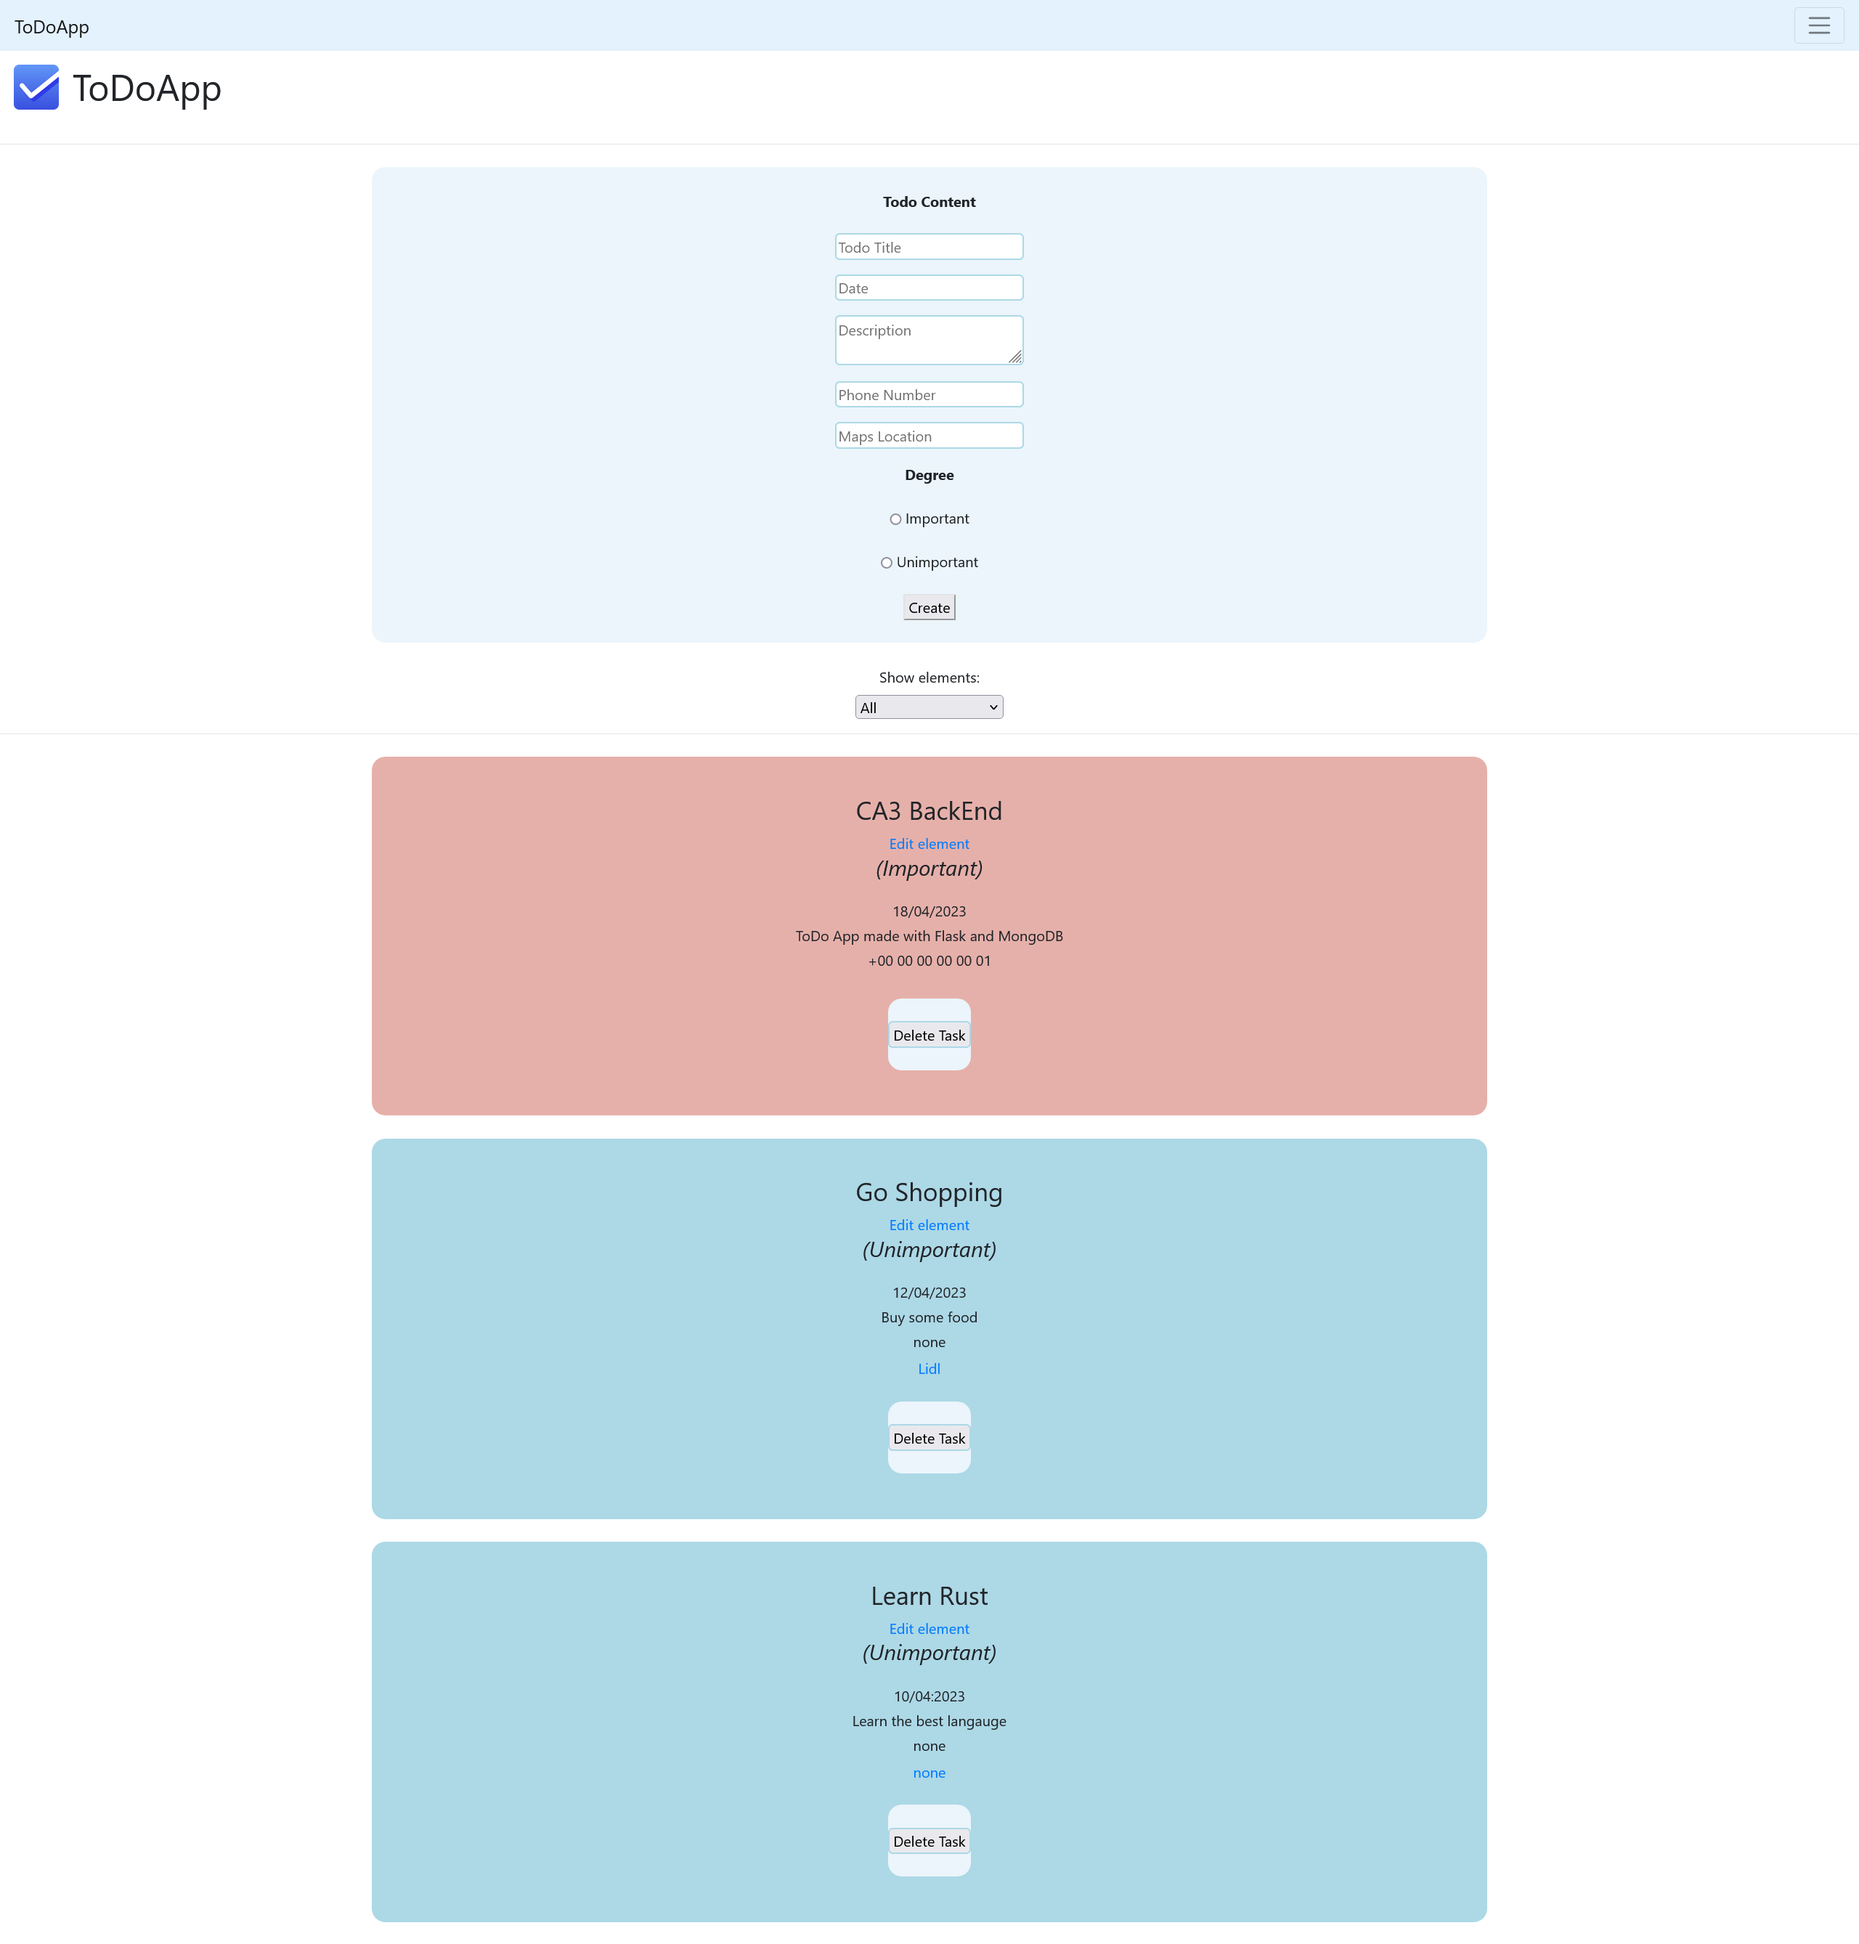
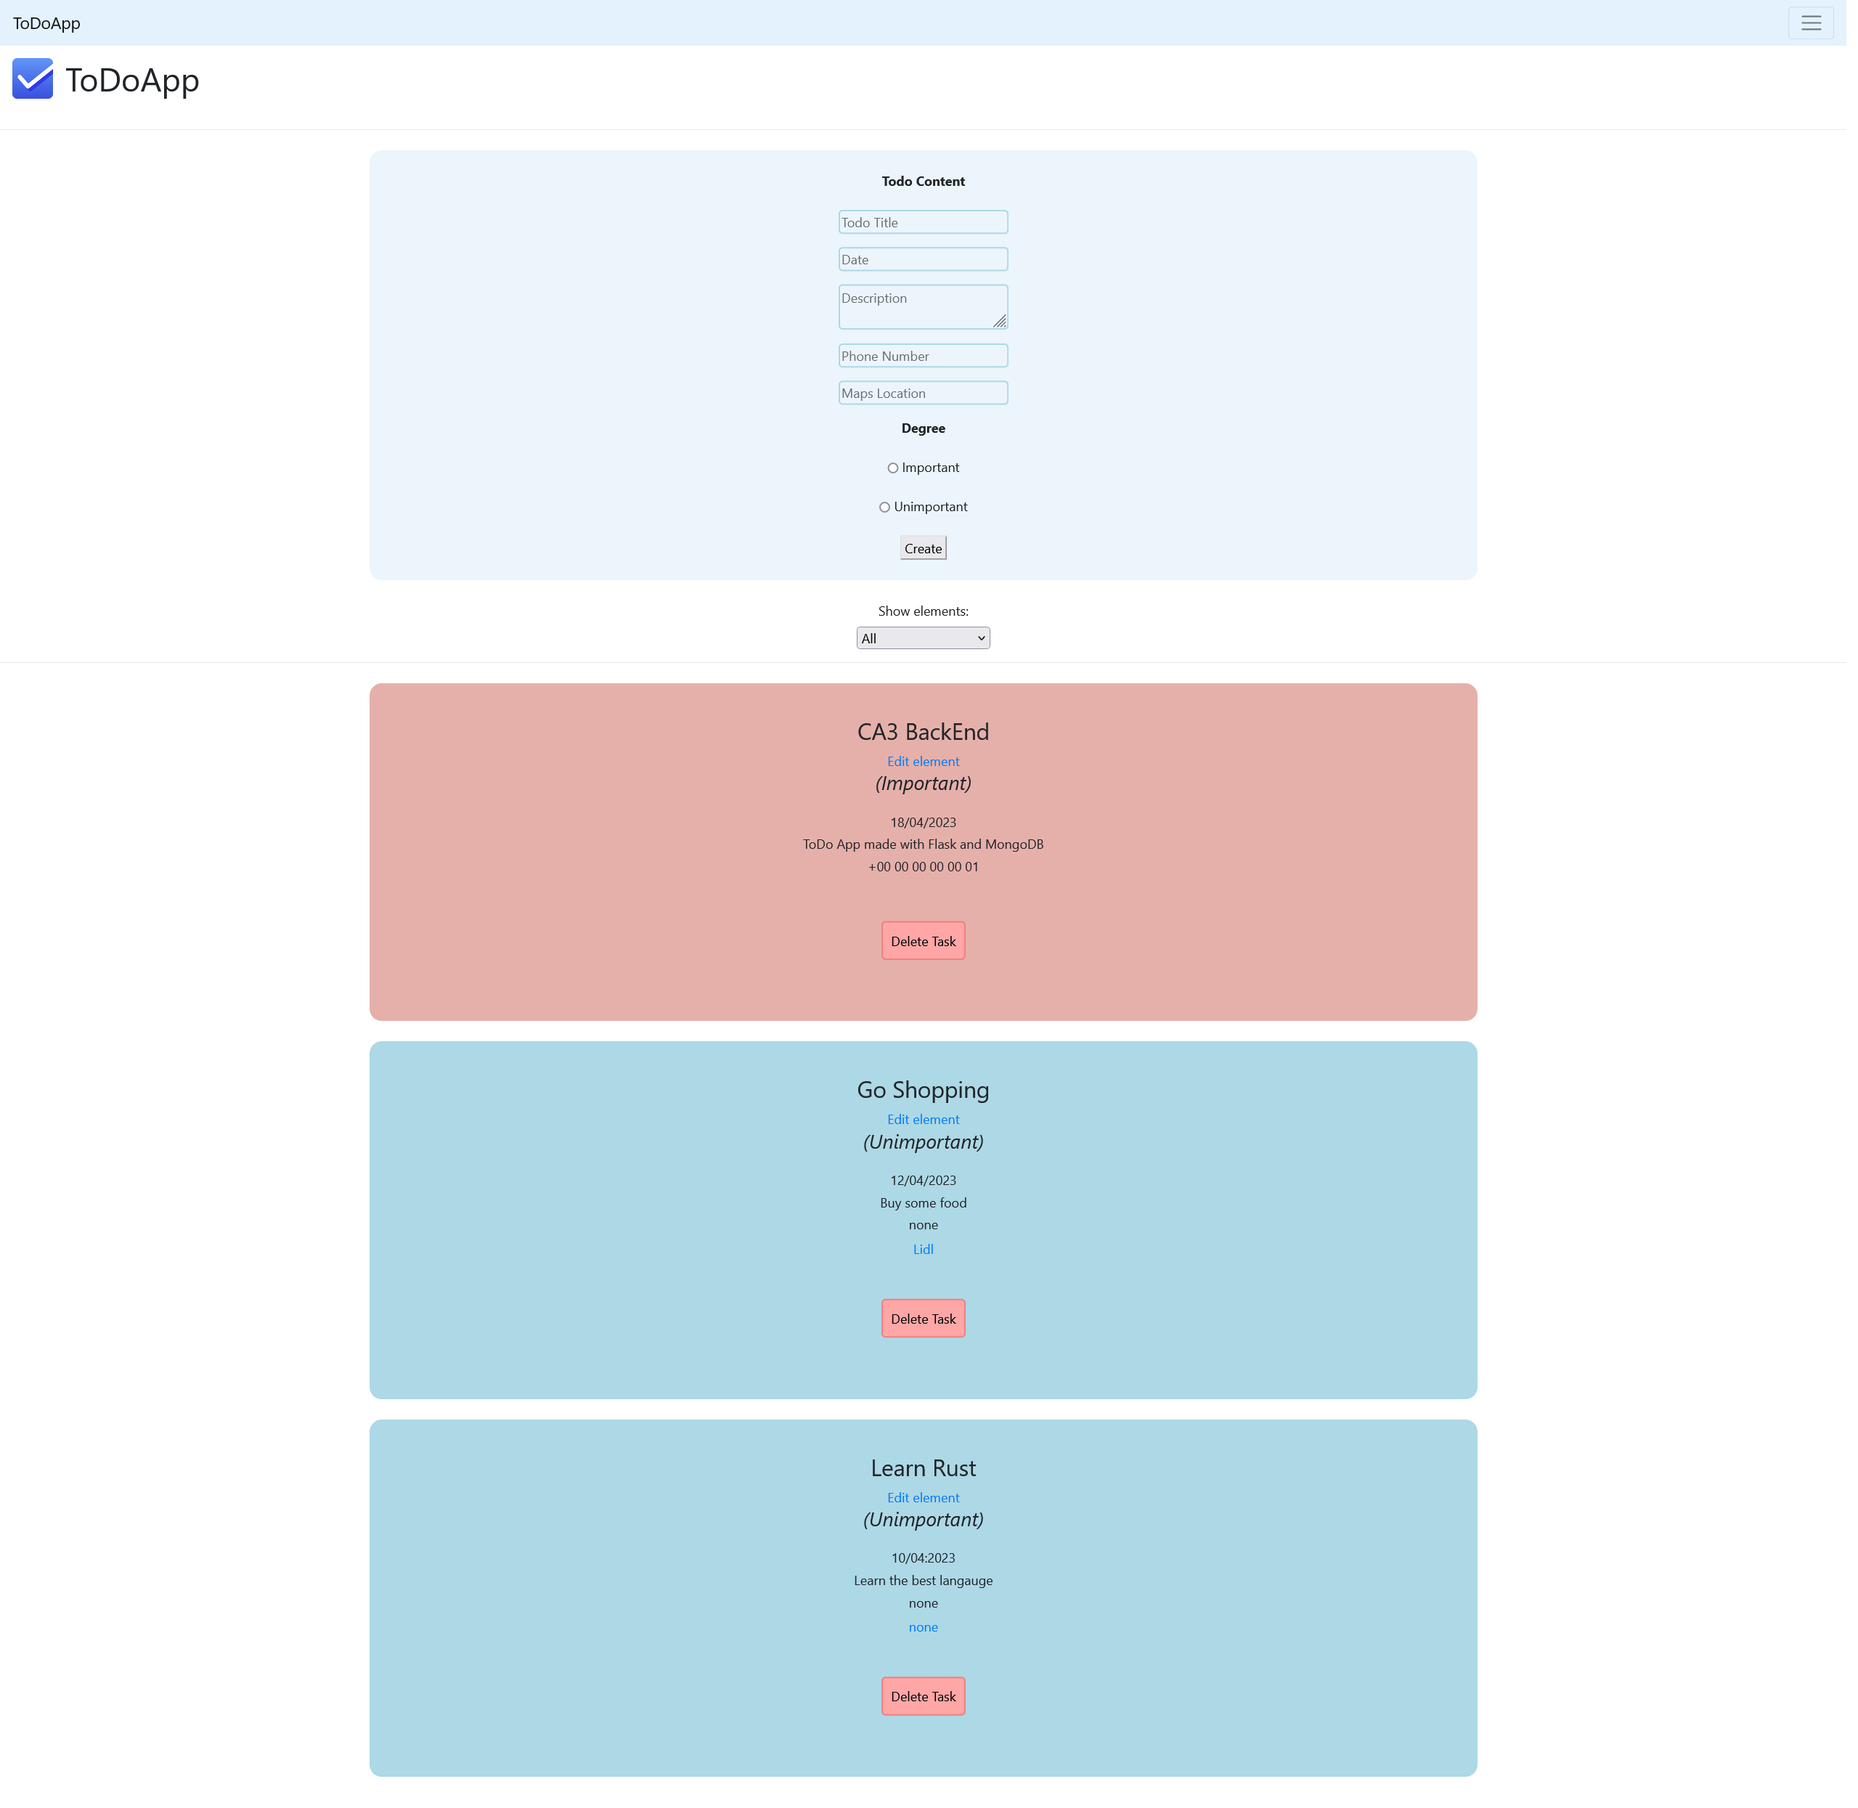
added style and modified readme.md

Changed region(s): [[0.1852, 0.0928, 0.8027, 0.9896], [0.0, 0.0, 0.1235, 0.0618], [0.957, 0.0, 1.0, 0.0309]]

diff --git a/templates/todolist.html b/templates/todolist.html
@@ -70,8 +70,8 @@
             <h6>{{ todo['description'] }}</h6>
             <h6>{{ todo['phone_number'] }}</h6>
 
-            <form method="POST" action="{{ url_for('delete', id=todo['_id']) }}" >
-                <input type="submit" value="Delete Task"
+            <form class="delete" method="POST" action="{{ url_for('delete', id=todo['_id']) }}" >
+                <input class="delete-button" type="submit" value="Delete Task"
                        onclick="return confirm('Are you sure you want to delete this entry?')">
             </form>
         </div>
@@ -87,8 +87,8 @@
             <h6>{{ todo['phone_number'] }}</h6>
             <a href="{{ todo['maps'] }}" target="_blank">{{ todo['maps'] }}</a>
 
-            <form method="POST" action="{{ url_for('delete', id=todo['_id']) }}" >
-                <input type="submit" value="Delete Task"
+            <form class="delete" method="POST" action="{{ url_for('delete', id=todo['_id']) }}" >
+                <input class="delete-button" type="submit" value="Delete Task"
                        onclick="return confirm('Are you sure you want to delete this entry?')">
             </form>
         </div>

diff --git a/static/css/all.css b/static/css/all.css
@@ -40,6 +40,8 @@ textarea{
     transition: 0.5s;
     border: lightblue solid 2px;
     border-radius: 5px;
+    text-decoration: none;
+    background: transparent;
 }
 input:focus,
 textarea:focus{
@@ -52,4 +54,18 @@ textarea:focus{
     display: flex;
     flex-direction: row;
     padding: 15px;
+}
+.delete{
+    background: none;
+}
+.delete-button{
+    transition: 0.5s;
+    background: #ffa6a6;
+    border: lightcoral solid 2px;
+    padding: 10px;
+}
+.delete-button:hover{
+    transition: 0.5s;
+    background: orangered;
+    border: darkred solid 2px;
 }

diff --git a/README.md b/README.md
@@ -3,10 +3,12 @@ A very simple, clean and quick ToDoApp
 ___
 This project is a MongoDB and Flask App for my CA4 Back-End Course.
 Very simple, clean, quick to use it as a personal ToDo App !
+---
 ![alt text](./static/imgs/ToDoApp.png)
 ---
 # 🎉 Features
 
+- ✅ **Create your account for free ! And access all you ToDos instantly !**
 - ✅ **Online** with Atlas (MongoDB) ! (or selfhost)
 - ✅ **Create, edit and delete** ToDos as you want !
 - ✅ **Simple design and lightweight**, easy to load !
